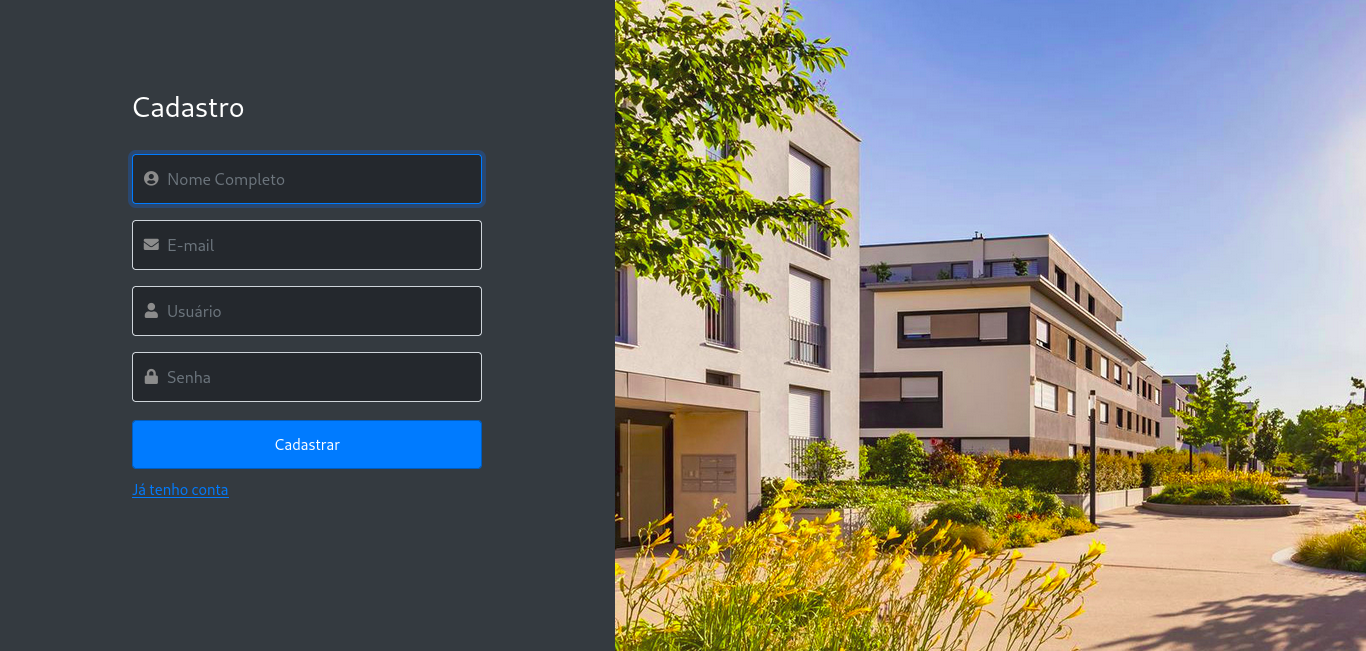
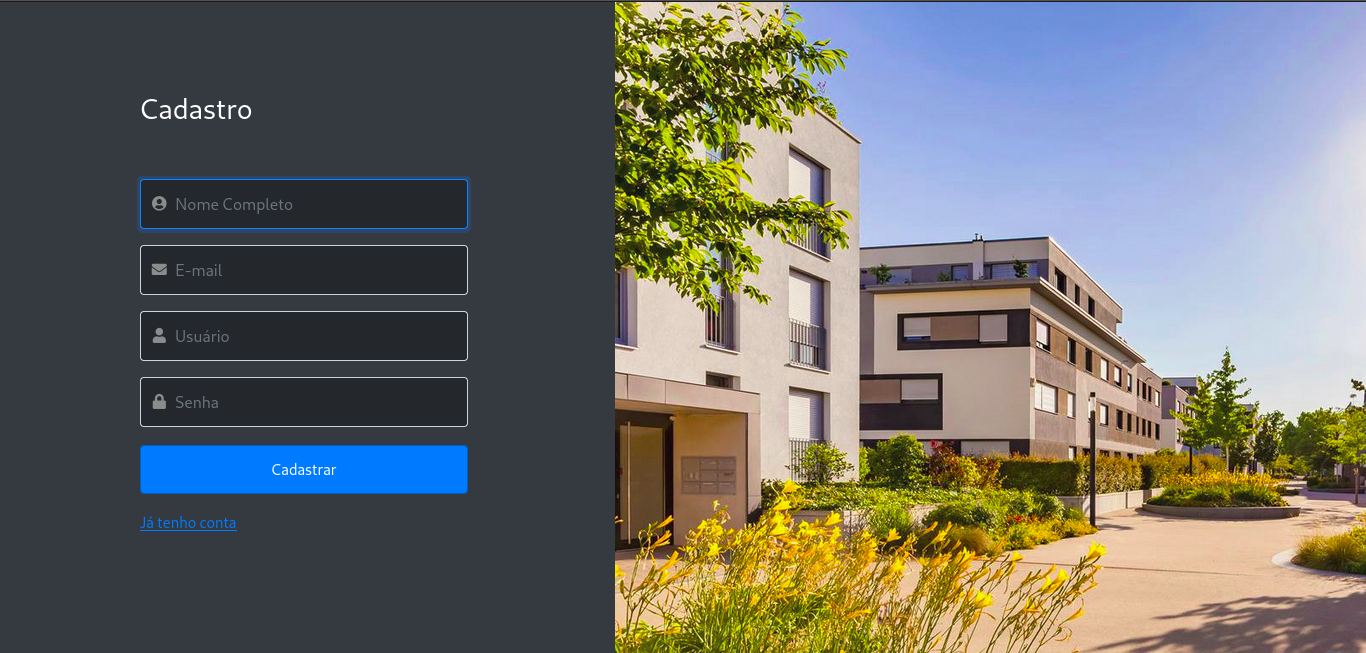
Atualização de arquivos

diff --git a/src/main/resources/static/css/style.css b/src/main/resources/static/css/style.css
@@ -56,7 +56,7 @@ body {
 }
 
 .margin-card-imovel {
-    margin: 20px 10px !important;
+    margin: 20px 2px !important;
 }
 
 .col-card {
@@ -160,9 +160,8 @@ form {
 }
 
 .add-photo form {
-   margin-top: 0px !important;
+   margin: 5px 0px !important;
    border: none !important;
-   padding: 0px;
 }
 
 .add-photo form input {
@@ -174,7 +173,8 @@ form {
 }
 
 .btn-default {
-    border: 2px solid #999 !important;
+    border: 1px solid #333 !important;
+    color: #333 !important;
 }
 
 .btn-primary, .btn-primary:focus {
@@ -208,29 +208,30 @@ form {
 }
 
 .navbar {
-    padding: 8px !important;
+    padding: 8px 20px !important;
     justify-content: left !important;
     height: 60px !important;
 }
 
-.navbar span:first-child {
+.navbar div:first-child {
     width: 60% !important;
     float: left !important;
 }
 
-.navbar span:first-child button {
+.navbar div:first-child button {
     float: left !important;
 }
 
-.navbar .navbar-margin-left {
-    padding-left: 20px !important;
+.navbar div:first-child button span {
+    margin-top: -6px !important;
+    margin-left: -15px !important;
+    width: 30px !important;
 }
 
-.navbar span:last-child {
+.navbar div:last-child {
     width: 40% !important;
     float: right !important;
     text-align: right !important;
-    padding-right: 30px !important;
 }
 
 .text-center {
@@ -439,6 +440,10 @@ table.dataTable.dtr-inline.collapsed > tbody > tr > td.dtr-control::before {
 #container-login .logo-login {
     margin-top: 0px !important;
     padding-bottom: 15px !important;
+}
+
+#container-login h3, #container-login a {
+    padding: 0px 8px !important;
 }
 
 #container-login form {

diff --git a/src/main/resources/templates/fragments/layout.html b/src/main/resources/templates/fragments/layout.html
@@ -56,15 +56,17 @@
     <!-- Page Content -->
     <div id="page-content-wrapper">
         <nav class="navbar navbar-expand-lg navbar-light bg-light border-bottom">
-            <span>
+            <div>
                 <button class="btn" id="menu-toggle" onclick="toggle()">
                     <span class="navbar-toggler-icon"></span>
                 </button>
                 <h3>Gestão de Imóveis</h3>
-            </span>
-            <span>
-                <a class="btn btn-default" th:href="@{/logout}">Sair</a>
-            </span>
+            </div>
+            <div>
+                <a class="btn btn-default" th:href="@{/logout}">
+                    <i class="fas fa-arrow-right"></i> Sair
+                </a>
+            </div>
         </nav>
         <div class="container-fluid">
             <section layout:fragment="content">

diff --git a/src/main/resources/templates/fragments/layoutUsuario.html b/src/main/resources/templates/fragments/layoutUsuario.html
@@ -19,12 +19,14 @@
     <!-- Page Content -->
     <div id="page-content-wrapper">
         <nav class="navbar navbar-expand-lg navbar-light bg-light border-bottom">
-            <span class="navbar-margin-left">
+            <div class="navbar-margin-left">
                 <h2>Gestão de Imóveis</h2>
-            </span>
-            <span>
-                <a class="btn btn-default" th:href="@{/logout}">Sair</a>
-            </span>
+            </div>
+            <div>
+                <a class="btn btn-default" th:href="@{/logout}">
+                    <i class="fas fa-arrow-right"></i> Sair
+                </a>
+            </div>
         </nav>
         <div class="container-fluid">
             <section layout:fragment="content">

diff --git a/src/main/resources/templates/imovel/imovelVisualizar.html b/src/main/resources/templates/imovel/imovelVisualizar.html
@@ -48,8 +48,10 @@
             </div>
         </div>
         <br>
-        <h4>Fotos:</h4>
-        <div th:unless="${imovel.imagens.size>0}">
+        <div class="row">
+            <h4>Fotos:</h4>
+        </div>
+        <div class="row" th:unless="${imovel.imagens.size>0}">
             <span>Sem fotos</span>
         </div>
         <div class="row" th:if="${imovel.imagens.size>0}">
@@ -62,8 +64,7 @@
                 </a>
             </div>
         </div>
-        <br>
-        <div class="add-photo">
+        <div class="row add-photo">
             <form method="post" th:action="@{/imagem/armazenar-imagem}" enctype="multipart/form-data">
                 <h4 class="inline" for="file">Adicionar foto:</h4>
                 <br>

diff --git a/src/main/resources/templates/imovel/imovelVisualizarUsuario.html b/src/main/resources/templates/imovel/imovelVisualizarUsuario.html
@@ -48,8 +48,10 @@
             </div>
         </div>
         <br>
-        <h4>Fotos:</h4>
-        <div th:unless="${imovel.imagens.size>0}">
+        <div class="row">
+            <h4>Fotos:</h4>
+        </div>
+        <div class="row" th:unless="${imovel.imagens.size>0}">
             <span>Sem fotos</span>
         </div>
         <div class="row" th:if="${imovel.imagens.size>0}">

diff --git a/src/main/resources/templates/imovel/imoveis.html b/src/main/resources/templates/imovel/imoveis.html
@@ -20,7 +20,7 @@
             <th class="col-2 filter">Categoria</th>
             <th class="col-1 filter">Quarto</th>
             <th class="col-2 filter">Cidade/UF</th>
-            <th class="col-1 filter">Preço</th>
+            <th class="col-1 filter">Valor</th>
             <th class="col-1 filter">Status</th>
             <th class="col-3"></th>
         </tr>

diff --git a/src/main/resources/templates/imovel/imoveisUsuario.html b/src/main/resources/templates/imovel/imoveisUsuario.html
@@ -20,7 +20,7 @@
             <th class="col-2 filter">Categoria</th>
             <th class="col-1 filter">Quarto</th>
             <th class="col-2 filter">Cidade/UF</th>
-            <th class="col-1 filter">Preço</th>
+            <th class="col-1 filter">Valor</th>
             <th class="col-1 filter">Status</th>
             <th class="col-3"></th>
         </tr>

diff --git a/README.md b/README.md
@@ -7,11 +7,11 @@ Sistema para gestão de imóveis desenvolvido em Java com Spring Boot e API REST
 - Login
 - Categorias
 - Negócios
-- Imóveis
 - Estados
 - Municípios
 - Bairros
 - Quartos
+- Imóveis
 - Usuários
 
 ## Requisitos
@@ -29,6 +29,7 @@ Sistema para gestão de imóveis desenvolvido em Java com Spring Boot e API REST
 - Lombok
 - Spring Boot
 - Thymeleaf
+- DataTables
 - Json
 - MySql
 - Swagger
